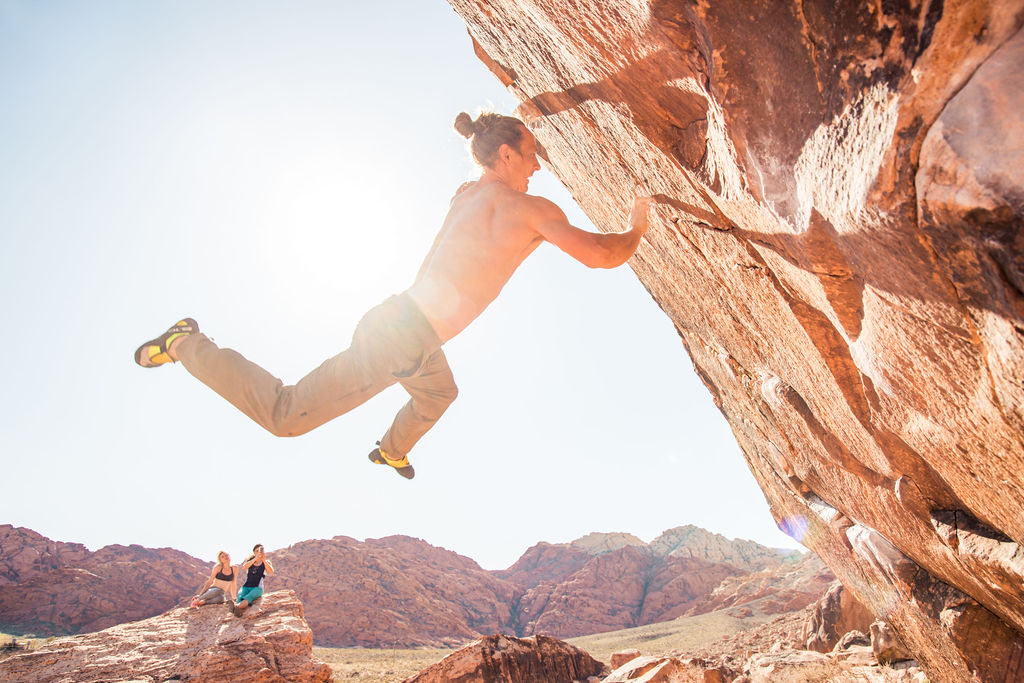
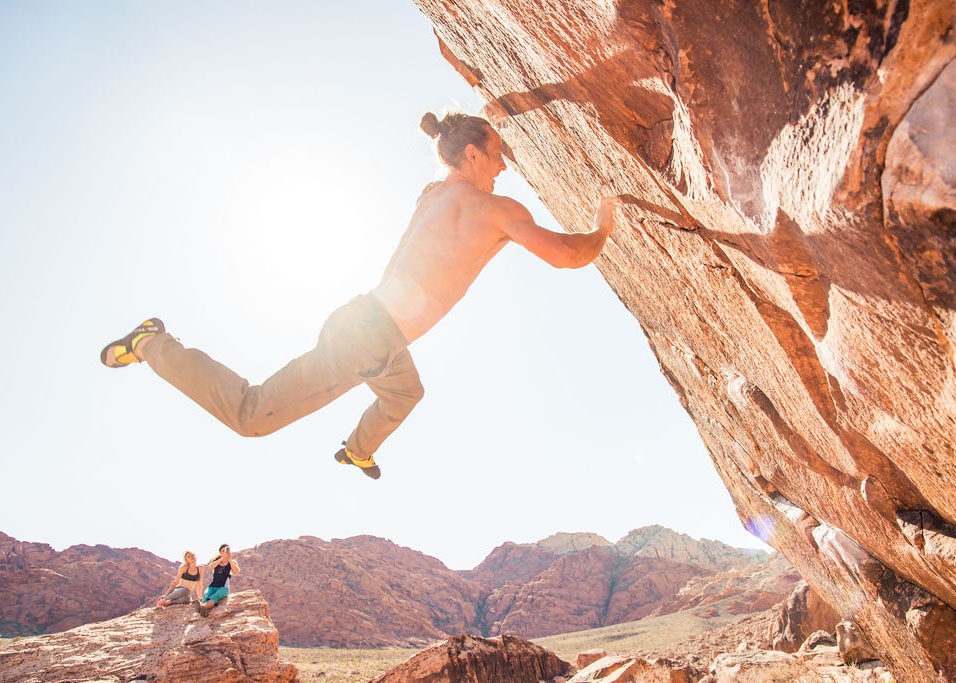
add images

diff --git a/index.html b/index.html
@@ -69,10 +69,25 @@
     
 <div class="container-fluid">
     <div class="row">
-      <div class="col-12">
-          <img src="images/homepage.JPG" class="homepageImage">
+      <div class="col-6 px-0">
+          <img src="images/homepage.JPG" class="img-fluid">
+          
+          
+        
+          <img src="images/alex1.JPG" class="img-fluid d-flex justify-content-center">
 
-  </div></div></div>
+        </div>
+    <div class="col-6 px-0">
+        
+        
+        <img src="images/alex.jpeg" class="img-fluid">
+        
+        
+             </div>
+    
+    
+    
+    </div></div>
     
 
    <hr size="5" width="100%"> 
